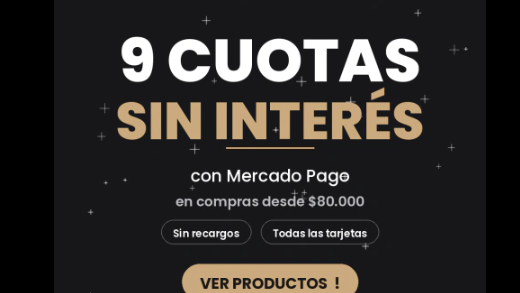
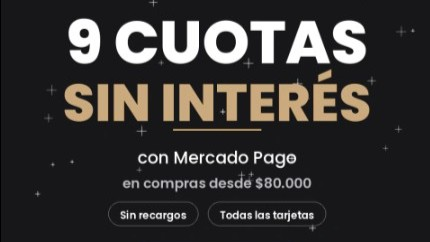
modificando

diff --git a/pagina web/public/stylesheets/Proyecto.css b/pagina web/public/stylesheets/Proyecto.css
@@ -2,6 +2,11 @@ footer{
     background-color:#aaa;
 }
 
+.carousel-inner{
+    width: 700%;
+    height: 700px;
+
+}
 .Catalogo {
     font-family: "Alfa Slab One", cursive;
     font-size: 3rem;
@@ -23,20 +28,33 @@ footer{
     font-size: 1.5rem;
     text-align: center;
 }
+.card-body {
+    font-family: "Alfa Slab One", cursive;
+    font-size: 1rem;
+    text-align: center;
+    background-color: #f8f9fa;
+}
+
+
+.col:hover {
+    transform: scale(1.15);
+  
+}
+
+.card-nosotros {
+    width: 100%;
+    height: 300px;
+    object-fit: cover;
+    transition: transform 0.3s ease;
+}
 
 .card {
-    filter: drop-shadow(0 0 0.80rem gray);
-    display: flex;
+    filter: drop-shadow(0 0 1.80rem gray);
+    box-shadow: 0 0 1.80rem gray;
     transition: transform 0.3s ease;
     width: 280px;
-    margin: 0 auto;
+    margin: 20px;
 }
-
-
-img:hover {
-    transform: scale(1.15);
-}
-
 html {
     scroll-behavior: smooth;
 }
@@ -47,8 +65,7 @@ html {
 
 .staff {
     background: #efefef;
-    background: gray;
-  
+    background: gray;  
 }
 
 .mapa iframe {
